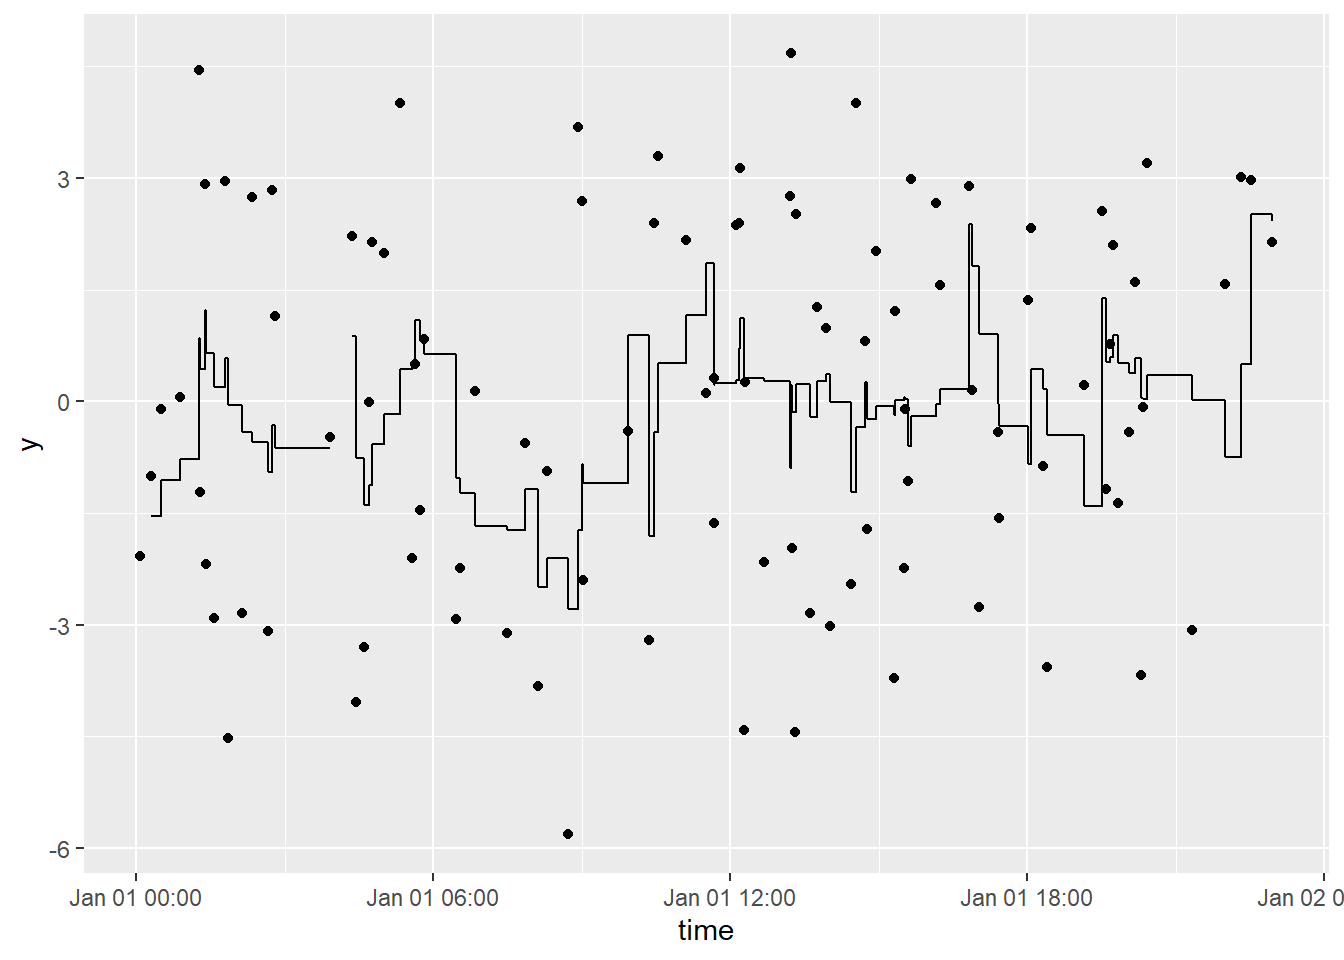
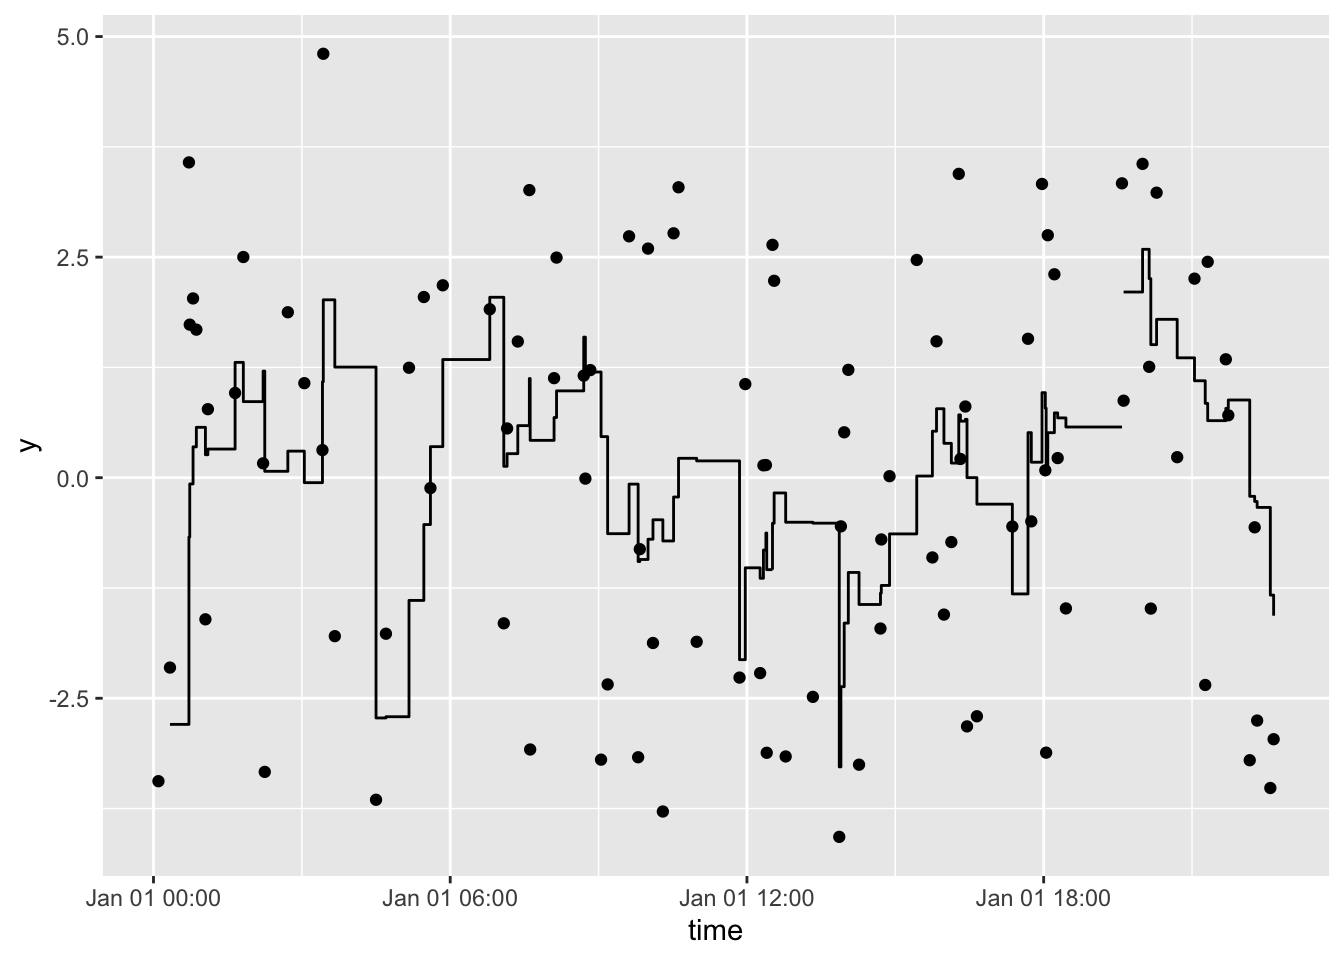
Re-build README.Rmd

diff --git a/README.md b/README.md
@@ -1,25 +1,27 @@
-
 <!-- README.md is generated from README.Rmd. Please edit that file -->
 
-# tbrf
+tbrf
+====
+
+<!-- badges: start -->
 
 [![CRAN
 version](https://www.r-pkg.org/badges/version/tbrf)](https://CRAN.R-project.org/package=tbrf)
+[![R build
+status](https://github.com/mps9506/tbrf/workflows/R-CMD-check/badge.svg)](https://github.com/mps9506/tbrf/actions)
 [![Travis build
 status](https://travis-ci.org/mps9506/tbrf.svg?branch=master)](https://travis-ci.org/mps9506/tbrf)
 [![AppVeyor build
 status](https://ci.appveyor.com/api/projects/status/github/mps9506/tbrf?branch=master&svg=true)](https://ci.appveyor.com/project/mps9506/tbrf)
 [![Coverage
 status](https://codecov.io/gh/mps9506/tbrf/branch/master/graph/badge.svg)](https://codecov.io/github/mps9506/tbrf?branch=master)
-
 [![License: GPL
 v3](https://img.shields.io/badge/License-GPL%20v3-blue.svg)](https://www.gnu.org/licenses/gpl-3.0)
-
-The goal of tbrf is to provide time-window based rolling statistical
-functions. The package differs from other rolling statistic packages
-because the intended use is for irregular measured data. Although tbrf
-can be used to apply statistical functions to regularly sampled data,
-[`zoo`](https://CRAN.R-project.org/package=zoo),
+<!-- badges: end --> The goal of tbrf is to provide time-window based
+rolling statistical functions. The package differs from other rolling
+statistic packages because the intended use is for irregular measured
+data. Although tbrf can be used to apply statistical functions to
+regularly sampled data, [`zoo`](https://CRAN.R-project.org/package=zoo),
 [`RcppRoll`](https://cran.r-project.org/package=RcppRoll), and other
 packages provide fast, efficient, and rich implementations of
 rolling/windowed functions.
@@ -34,114 +36,115 @@ tbrf identifies the previous n measurements within the specified time
 window, applies the function, and outputs a variable with the result of
 the rolling statistical measure.
 
-## Installation
+Installation
+------------
 
 tbrf is available on CRAN:
 
-``` r
-install.packages("tbrf")
-```
+    install.packages("tbrf")
 
 The development version is maintained on github and can be installed as:
 
-``` r
-install.packages(remotes)
-remotes::install_github("mps9506/tbrf")
-```
+    install.packages(remotes)
+    remotes::install_github("mps9506/tbrf")
 
-## Available Functions
+Available Functions
+-------------------
 
-  - `tbr_binom`: Rolling binomial probability with confidence intervals.
+-   `tbr_binom`: Rolling binomial probability with confidence intervals.
 
-  - `tbr_gmean`: Rolling geometric mean with confidence intervals.
+-   `tbr_gmean`: Rolling geometric mean with confidence intervals.
 
-  - `tbr_mean`: Rolling mean with confidence intervals.
+-   `tbr_mean`: Rolling mean with confidence intervals.
 
-  - `tbr_median`: Rolling median with confidence intervals.
+-   `tbr_median`: Rolling median with confidence intervals.
 
-  - `tbr_misc`: Accepts user specified function.
+-   `tbr_misc`: Accepts user specified function.
 
-  - `tbr_sd`: Rolling standard deviation.
+-   `tbr_sd`: Rolling standard deviation.
 
-  - `tbr_sum`: Rolling sum.
+-   `tbr_sum`: Rolling sum.
 
-## Usage
+Usage
+-----
 
 See:
 
-<https://mps9506.github.io/tbrf/>
+<a href="https://mps9506.github.io/tbrf/" class="uri">https://mps9506.github.io/tbrf/</a>
 
-## Example
+Example
+-------
 
 Plot a rolling 1-hour mean:
 
-``` r
-library(tbrf)
-library(dplyr)
-library(ggplot2)
-library(ggalt)
+    library(tbrf)
+    library(dplyr)
+    library(ggplot2)
+    library(ggalt)
 
-y = 3 * sin(2 * seq(from = 0, to = 4*pi, length.out = 100)) + rnorm(100)
-time = sample(seq(as.POSIXct(strptime("2017-01-01 00:01:00", "%Y-%m-%d %H:%M:%S")),
-                  as.POSIXct(strptime("2017-01-01 23:00:00", "%Y-%m-%d %H:%M:%S")),
-                  by = "min"), 100)
+    y = 3 * sin(2 * seq(from = 0, to = 4*pi, length.out = 100)) + rnorm(100)
+    time = sample(seq(as.POSIXct(strptime("2017-01-01 00:01:00", "%Y-%m-%d %H:%M:%S")),
+                      as.POSIXct(strptime("2017-01-01 23:00:00", "%Y-%m-%d %H:%M:%S")),
+                      by = "min"), 100)
 
-df <- data_frame(y, time)
+    df <- tibble(y, time)
 
-df %>%
-  tbr_mean(y, time, "hours", n = 1) %>%
-  ggplot() +
-  geom_point(aes(time, y)) +
-  geom_step(aes(time, mean))
-```
+    df %>%
+      tbr_mean(y, time, "hours", n = 1) %>%
+      ggplot() +
+      geom_point(aes(time, y)) +
+      geom_step(aes(time, mean))
 
 <img src="man/figures/README-tbr_hour-1.png" width="672" />
 
 Plot a rolling 3-hour mean:
 
-``` r
-df %>%
-  tbr_mean(y, time, "hours", n = 3) %>%
-  ggplot() +
-  geom_point(aes(time, y)) +
-  geom_step(aes(time, mean))
-```
+    df %>%
+      tbr_mean(y, time, "hours", n = 3) %>%
+      ggplot() +
+      geom_point(aes(time, y)) +
+      geom_step(aes(time, mean))
 
 <img src="man/figures/README-tbr_threehour-1.png" width="672" />
 
-## Contributing
+Contributing
+------------
 
 Please note that this project is released with a [Contributor Code of
 Conduct](https://github.com/mps9506/tbrf/blob/master/CODE_OF_CONDUCT.md).
 By participating in this project you agree to abide by its terms.
 
-## License
+License
+-------
 
 tbrf code is released under GPL-3 | LICENSE.md
 
-`binom_ci()` is an implementation of code licensed under GPL (\>=2) by
+`binom_ci()` is an implementation of code licensed under GPL (&gt;=2) by
 Frank Harrell’s [`Hmisc`](https://github.com/harrelfe/Hmisc) package.
 
-## Test Results
+Test Results
+------------
 
-``` r
-library(tbrf)
+    library(tbrf)
 
-date()
-## [1] "Fri Apr 10 08:24:50 2020"
+    date()
+    ## [1] "Sat May 16 03:00:27 2020"
 
-devtools::test()
-## v |  OK F W S | Context
-## / |   0       | core functions work in piped workflow- |   1       | core functions work in piped workflow- |   5       | core functions work in piped workflowv |   6       | core functions work in piped workflow [0.3 s]
-## / |   0       | core functions return expected errors and messagesv |   7       | core functions return expected errors and messages
-## / |   0       | core functions return expected structures and values\ |   2       | core functions return expected structures and values/ |   4       | core functions return expected structures and values- |   5       | core functions return expected structures and values\ |   6       | core functions return expected structures and valuesv |   6       | core functions return expected structures and values [1.2 s]
-## / |   0       | internal statistical functions return expected values| |   3       | internal statistical functions return expected values- |   5       | internal statistical functions return expected valuesv |  11       | internal statistical functions return expected values [0.3 s]
-## 
-## == Results ==========================================
-## Duration: 1.9 s
-## 
-## OK:       30
-## Failed:   0
-## Warnings: 0
-## Skipped:  0
-```
+    devtools::test()
+    ## ✔ |  OK [31mF[39m [35mW[39m [34mS[39m | Context
+    ## ⠏ |   0       | core functions work in piped workflow⠋ |   1       | core functions work in piped workflow⠹ |   3       | core functions work in piped workflow⠴ |   6       | core functions work in piped workflow[32m✔[39m |   6       | core functions work in piped workflow[36m [0.4 s][39m
+    ## ⠏ |   0       | core functions return expected errors and messages⠦ |   7       | core functions return expected errors and messages[32m✔[39m |   7       | core functions return expected errors and messages[36m [0.1 s][39m
+    ## ⠏ |   0       | core functions return expected structures and values⠋ |   0   1   | core functions return expected structures and values⠸ |   3   1   | core functions return expected structures and values⠴ |   5   1   | core functions return expected structures and values⠦ |   6   1   | core functions return expected structures and values[32m✔[39m |   6   1   | core functions return expected structures and values[36m [1.5 s][39m
+    ## ────────────────────────────────────────────────────────────────────────────────
+    ## [1mtest-expectedValues.R:26: [35mwarning[39m: tbr_mean provides same results as mean[22m
+    ## Column `results` has different attributes on LHS and RHS of join
+    ## ────────────────────────────────────────────────────────────────────────────────
+    ## ⠏ |   0       | internal statistical functions return expected values⠹ |   3       | internal statistical functions return expected values⠼ |   5       | internal statistical functions return expected values⠇ |   9       | internal statistical functions return expected values[32m✔[39m |  17       | internal statistical functions return expected values[36m [0.8 s][39m
+    ## 
+    ## ══ [1mResults[22m ═════════════════════════════════════════════════════════════════════
+    ## [36mDuration: 2.8 s[39m
+    ## 
+    ## OK:       [32m36[39m
+    ## Failed:   [32m0[39m
+    ## Warnings: [35m1[39m
+    ## Skipped:  [32m0[39m
